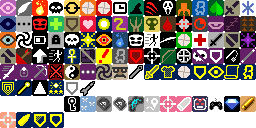
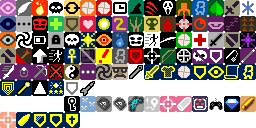
마리 EX1 3-5 특성 구현

Changed region(s): [[0.25, 0.875, 0.3125, 1.0]]

diff --git a/core/src/main/java/com/shatteredpixel/shatteredpixeldungeon/actors/hero/miracles/HolyMantle.java b/core/src/main/java/com/shatteredpixel/shatteredpixeldungeon/actors/hero/miracles/HolyMantle.java
@@ -1,0 +1,87 @@
+package com.shatteredpixel.shatteredpixeldungeon.actors.hero.miracles;
+
+import com.shatteredpixel.shatteredpixeldungeon.Assets;
+import com.shatteredpixel.shatteredpixeldungeon.actors.Char;
+import com.shatteredpixel.shatteredpixeldungeon.actors.buffs.Buff;
+import com.shatteredpixel.shatteredpixeldungeon.actors.buffs.FlavourBuff;
+import com.shatteredpixel.shatteredpixeldungeon.actors.hero.Hero;
+import com.shatteredpixel.shatteredpixeldungeon.actors.hero.Talent;
+import com.shatteredpixel.shatteredpixeldungeon.actors.hero.console.fantasy.Thunder;
+import com.shatteredpixel.shatteredpixeldungeon.items.artifacts.CrossNecklace;
+import com.shatteredpixel.shatteredpixeldungeon.ui.BuffIndicator;
+import com.shatteredpixel.shatteredpixeldungeon.ui.HeroIcon;
+import com.watabou.noosa.Image;
+import com.watabou.noosa.audio.Sample;
+import com.watabou.utils.Callback;
+
+public class HolyMantle extends MariMiracle {
+    public static final HolyMantle INSTANCE = new HolyMantle();
+
+    @Override
+    public int icon() {
+        return HeroIcon.HOLY_MANTLE;
+    }
+
+    @Override
+    public float chargeUse(Hero hero) {
+        return 5-hero.pointsInTalent(Talent.MARI_EX1_3);
+    }
+
+    @Override
+    public boolean canCast(Hero hero) {
+        return super.canCast(hero) && hero.hasTalent(Talent.MARI_EX1_3) && hero.buff(HolyMantleBuff.class) == null && hero.buff(HolyMantleBuffCooldown.class) == null;
+    }
+
+    @Override
+    public void onCast(CrossNecklace cross, Hero hero) {
+        hero.busy();
+        Sample.INSTANCE.play(Assets.Sounds.READ);
+        Buff.affect(hero, HolyMantleBuff.class);
+        onMiracleCast(cross, hero);
+        hero.sprite.operate(hero.pos, new Callback() {
+            @Override
+            public void call() {
+                hero.sprite.idle();
+                hero.next();
+            }
+        });
+    }
+
+    public static class HolyMantleBuff extends Buff {
+
+        {
+            type = buffType.POSITIVE;
+            announced = true;
+        }
+
+        @Override
+        public int icon() {
+            return BuffIndicator.HOLY_MANTLE;
+        }
+
+        @Override
+        public void detach() {
+            super.detach();
+            Buff.affect(target, HolyMantleBuffCooldown.class, HolyMantleBuffCooldown.DURATION);
+        }
+    }
+
+    public static class HolyMantleBuffCooldown extends FlavourBuff {
+        public static final float DURATION = 50f;
+
+        @Override
+        public int icon() {
+            return BuffIndicator.TIME;
+        }
+
+        @Override
+        public float iconFadePercent() {
+            return Math.max(0, visualcooldown()/DURATION);
+        }
+
+        @Override
+        public void tintIcon(Image icon) {
+            icon.hardlight(0xFFFF00);
+        }
+    }
+}

diff --git a/core/src/main/java/com/shatteredpixel/shatteredpixeldungeon/actors/hero/Hero.java b/core/src/main/java/com/shatteredpixel/shatteredpixeldungeon/actors/hero/Hero.java
@@ -88,6 +88,7 @@ import com.shatteredpixel.shatteredpixeldungeon.actors.hero.abilities.mika.Perfe
 import com.shatteredpixel.shatteredpixeldungeon.actors.hero.abilities.shiroko.GPSRoute;
 import com.shatteredpixel.shatteredpixeldungeon.actors.hero.abilities.warrior.Endure;
 import com.shatteredpixel.shatteredpixeldungeon.actors.hero.console.fantasy.Thunder;
+import com.shatteredpixel.shatteredpixeldungeon.actors.hero.miracles.HolyMantle;
 import com.shatteredpixel.shatteredpixeldungeon.actors.hero.miracles.LightBullet;
 import com.shatteredpixel.shatteredpixeldungeon.actors.hero.miracles.MariMiracle;
 import com.shatteredpixel.shatteredpixeldungeon.actors.hero.miracles.Pray;
@@ -760,6 +761,14 @@ public class Hero extends Char {
 
 		if (buff(ShieldParry.ParryBuff.class) != null) {
 			Sample.INSTANCE.play(Assets.Sounds.HIT_PARRY, 1, Random.Float(0.96f, 1.05f));
+			return Messages.get(Monk.class, "parried");
+		}
+
+		if (buff(HolyMantle.HolyMantleBuff.class) != null) {
+			buff(HolyMantle.HolyMantleBuff.class).detach();
+			if (sprite != null && sprite.visible) {
+				Sample.INSTANCE.play(Assets.Sounds.HIT_PARRY, 1, Random.Float(0.96f, 1.05f));
+			}
 			return Messages.get(Monk.class, "parried");
 		}
 

diff --git a/core/src/main/java/com/shatteredpixel/shatteredpixeldungeon/actors/Char.java b/core/src/main/java/com/shatteredpixel/shatteredpixeldungeon/actors/Char.java
@@ -91,6 +91,7 @@ import com.shatteredpixel.shatteredpixeldungeon.actors.hero.abilities.hoshino.Ch
 import com.shatteredpixel.shatteredpixeldungeon.actors.hero.abilities.rogue.DeathMark;
 import com.shatteredpixel.shatteredpixeldungeon.actors.hero.abilities.shiroko.PenetrationShot;
 import com.shatteredpixel.shatteredpixeldungeon.actors.hero.abilities.warrior.Endure;
+import com.shatteredpixel.shatteredpixeldungeon.actors.hero.miracles.HolyMantle;
 import com.shatteredpixel.shatteredpixeldungeon.actors.hero.miracles.MariMiracle;
 import com.shatteredpixel.shatteredpixeldungeon.actors.hero.miracles.Pray;
 import com.shatteredpixel.shatteredpixeldungeon.actors.hero.spells.AuraOfProtection;
@@ -740,6 +741,10 @@ public abstract class Char extends Actor {
 		}
 
 		if (defender.buff(TrashBin.EvasionBuff.class) != null){
+			defStat = INFINITE_EVASION;
+		}
+
+		if (defender.buff(HolyMantle.HolyMantleBuff.class) != null){
 			defStat = INFINITE_EVASION;
 		}
 

diff --git a/core/src/main/java/com/shatteredpixel/shatteredpixeldungeon/actors/hero/miracles/MariMiracle.java b/core/src/main/java/com/shatteredpixel/shatteredpixeldungeon/actors/hero/miracles/MariMiracle.java
@@ -117,6 +117,9 @@ public abstract class MariMiracle {
             if (mari.hasTalent(Talent.MARI_EX1_2)) {
                 miracles.add(ThunderLance.INSTANCE);
             }
+            if (mari.hasTalent(Talent.MARI_EX1_3)) {
+                miracles.add(HolyMantle.INSTANCE);
+            }
 
         } else if (tier == 4){
 
@@ -139,6 +142,7 @@ public abstract class MariMiracle {
         miracles.add(HolyBullet.INSTANCE);
         miracles.add(HolyBlast.INSTANCE);
         miracles.add(ThunderLance.INSTANCE);
+        miracles.add(HolyMantle.INSTANCE);
 
         return miracles;
     }

diff --git a/core/src/main/java/com/shatteredpixel/shatteredpixeldungeon/ui/BuffIndicator.java b/core/src/main/java/com/shatteredpixel/shatteredpixeldungeon/ui/BuffIndicator.java
@@ -154,6 +154,7 @@ public class BuffIndicator extends Component {
 	public static final int LIGHT_BULLET = 113;
 	public static final int PROTECTION = 114;
 	public static final int BLESS_OF_CHARITY = 115;
+	public static final int HOLY_MANTLE = 116;
 
 	public static final int SIZE_SMALL  = 7;
 	public static final int SIZE_LARGE  = 16;

diff --git a/core/src/main/java/com/shatteredpixel/shatteredpixeldungeon/ui/HeroIcon.java b/core/src/main/java/com/shatteredpixel/shatteredpixeldungeon/ui/HeroIcon.java
@@ -243,6 +243,7 @@ public class HeroIcon extends Image {
 	public static final int HOLY_BULLET		= 128 + 144;
 	public static final int HOLY_BLAST		= 128 + 145;
 	public static final int THUNDER_LANCE	= 128 + 146;
+	public static final int HOLY_MANTLE		= 128 + 147;
 
 
 	public HeroIcon(HeroSubClass subCls){
